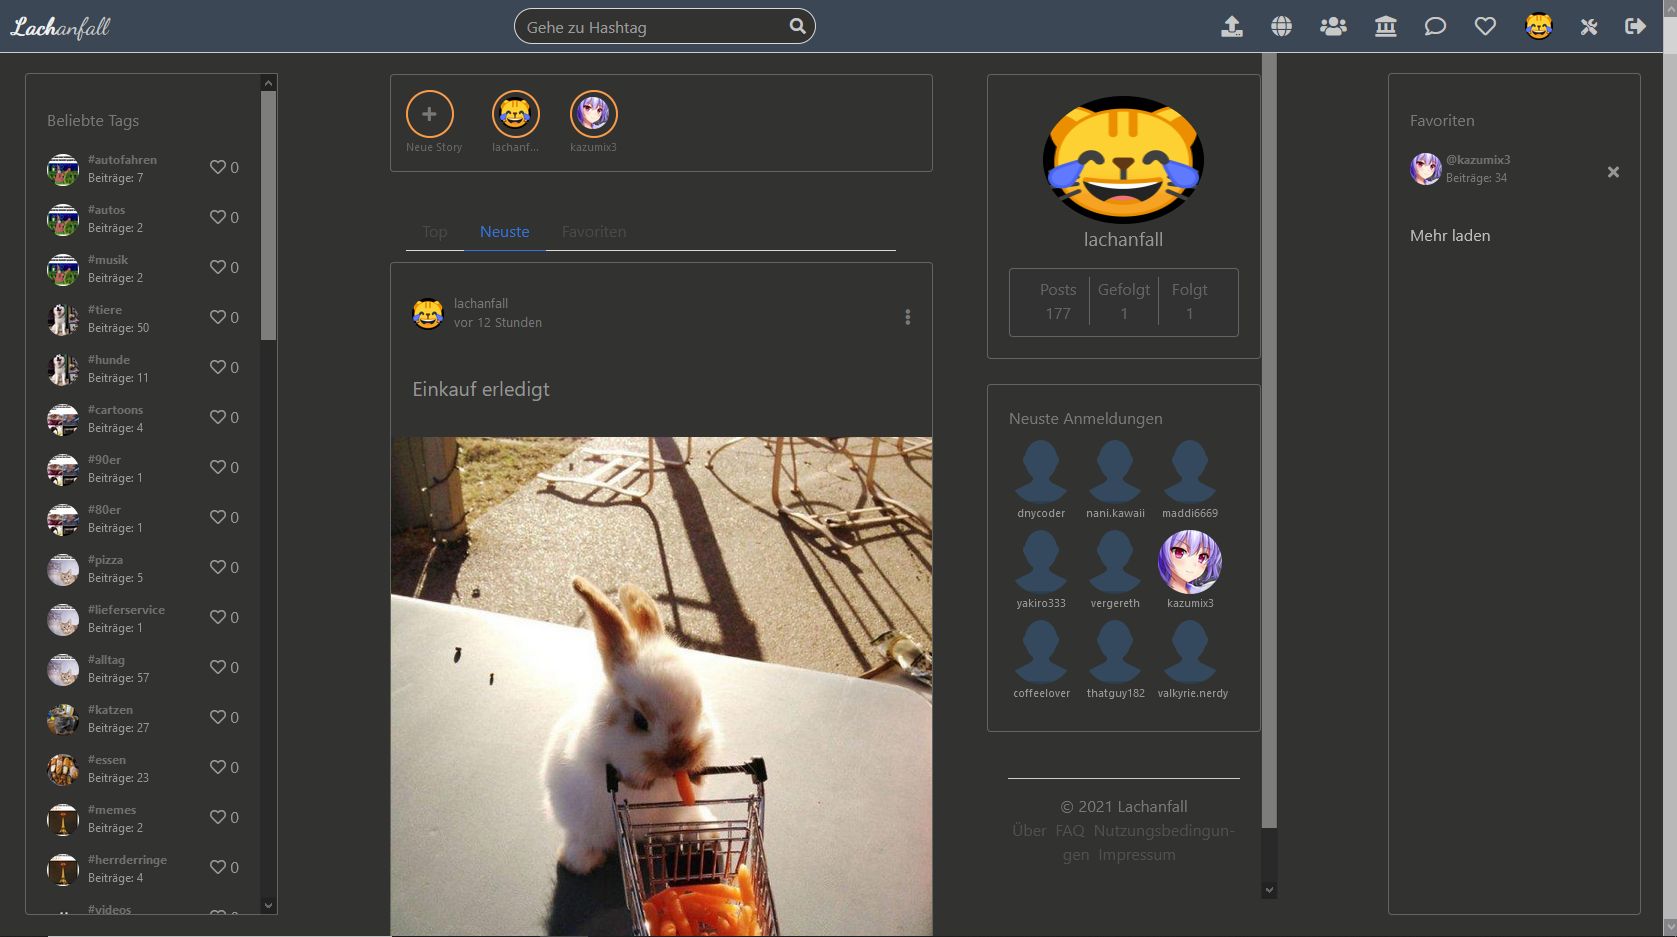
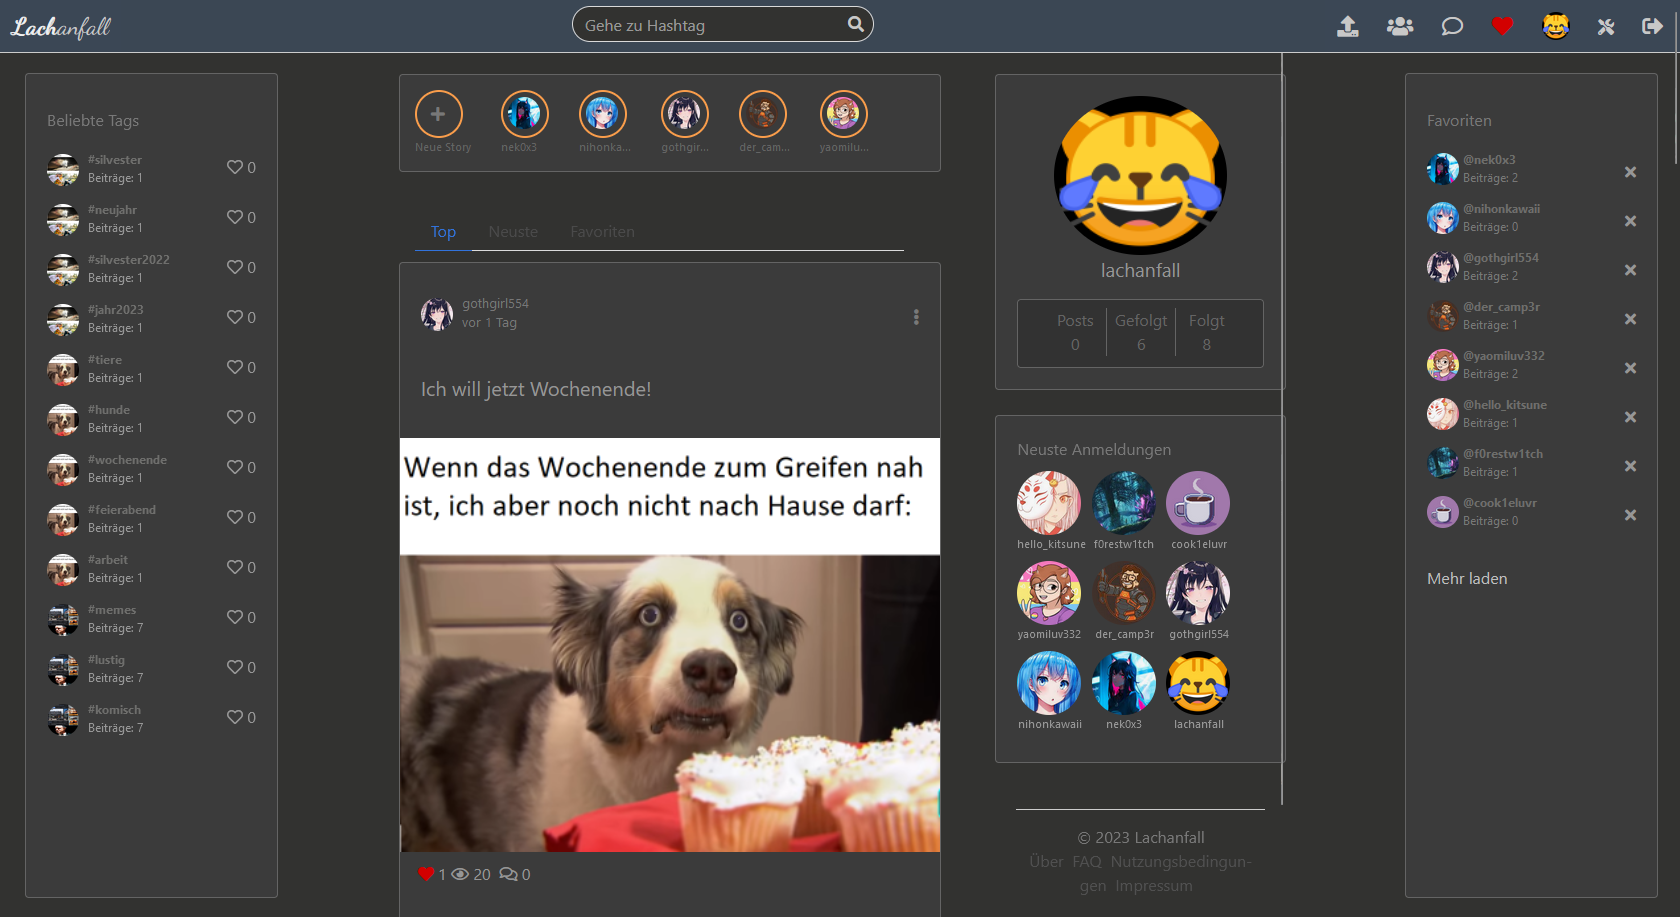
Lachanfall is back again

diff --git a/resources/lang/de/app.php b/resources/lang/de/app.php
@@ -27,7 +27,7 @@ return [
     'helprealm_sub' => 'Seit 2020 - keine Werbung, fast keine Kosten &#x25CF; <a href="https://helprealm.io">helprealm.io</a> &#x25CF; <span class="is-abandoned">eingestellt</span>',
     'helprealm_title' => 'Besonders geeignet für Freelancer und kleine Teams',
     'lachanfall_top' => 'Lustige Bilder, Witze & Videos',
-    'lachanfall_sub' => 'Finde oder poste lustige Bilder, Memes, Witze, GIFs & Videos &#x25CF; <a href="https://lachanfall.co/">lachanfall.co</a> &#x25CF; <span class="is-abandoned">eingestellt</span>',
+    'lachanfall_sub' => 'Finde oder poste lustige Bilder, Memes, Witze, GIFs & Videos &#x25CF; <a href="https://www.lachanfall.net/">lachanfall.net</a> &#x25CF; <span class="is-online">aktiv</span>',
     'lachanfall_title' => 'Für die tägliche Dosis an Lachanfällen',
     'astarlove_top' => 'Die Dating Plattform für das Metal, Gothic & Alternative Universum',
     'astarlove_sub' => 'Finde deine Metal, Gothic oder Alternative Seelenverwandten &#x25CF; <a href="https://www.astarlove.com/">astarlove.com</a> &#x25CF; <span class="is-abandoned">eingestellt</span>',

diff --git a/resources/lang/en/app.php b/resources/lang/en/app.php
@@ -27,7 +27,7 @@ return [
     'helprealm_sub' => 'Since 2020 - no ads, almost no costs &#x25CF; <a href="https://helprealm.io">helprealm.io</a> &#x25CF; <span class="is-abandoned">abandoned</span>',
     'helprealm_title' => 'Especially suited for freelancers and small teams',
     'lachanfall_top' => 'Funny images, jokes & videos',
-    'lachanfall_sub' => 'Find and post funny images, memes, jokes, gifs & videos &#x25CF; <a href="https://lachanfall.co/">lachanfall.co</a> &#x25CF; <span class="is-abandoned">abandoned</span>',
+    'lachanfall_sub' => 'Find and post funny images, memes, jokes, gifs & videos &#x25CF; <a href="https://www.lachanfall.net/">lachanfall.net</a> &#x25CF; <span class="is-online">active</span>',
     'lachanfall_title' => 'A service to entertain its users on a daily basis',
     'astarlove_top' => 'The free dating platform for all around metal, gothic & alternative',
     'astarlove_sub' => 'Find your metal, gothic or alternative soul mate &#x25CF; <a href="https://www.astarlove.com/">astarlove.com</a> &#x25CF; <span class="is-abandoned">abandoned</span>',

diff --git a/resources/views/layouts/layout_home.blade.php b/resources/views/layouts/layout_home.blade.php
@@ -100,7 +100,7 @@
                                 geekflash.net
                             </a>
                             <a class="navbar-item" href="{{ url('/services/lachanfall') }}">
-                                lachanfall.co
+                                lachanfall.net
                             </a>
                             <a class="navbar-item" href="{{ url('/services/astarlove') }}">
                                 astarlove.com